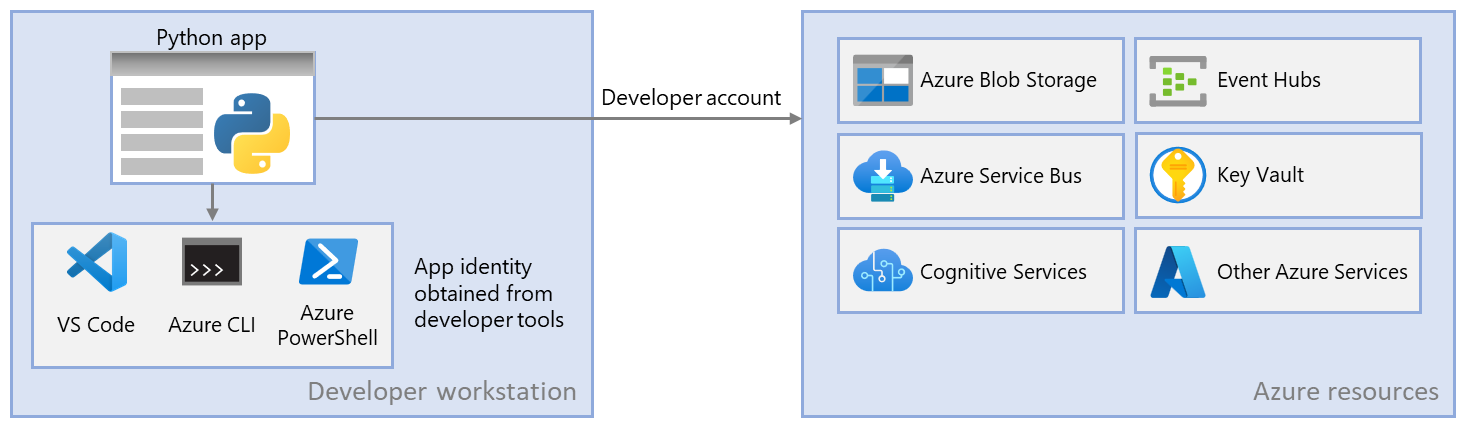
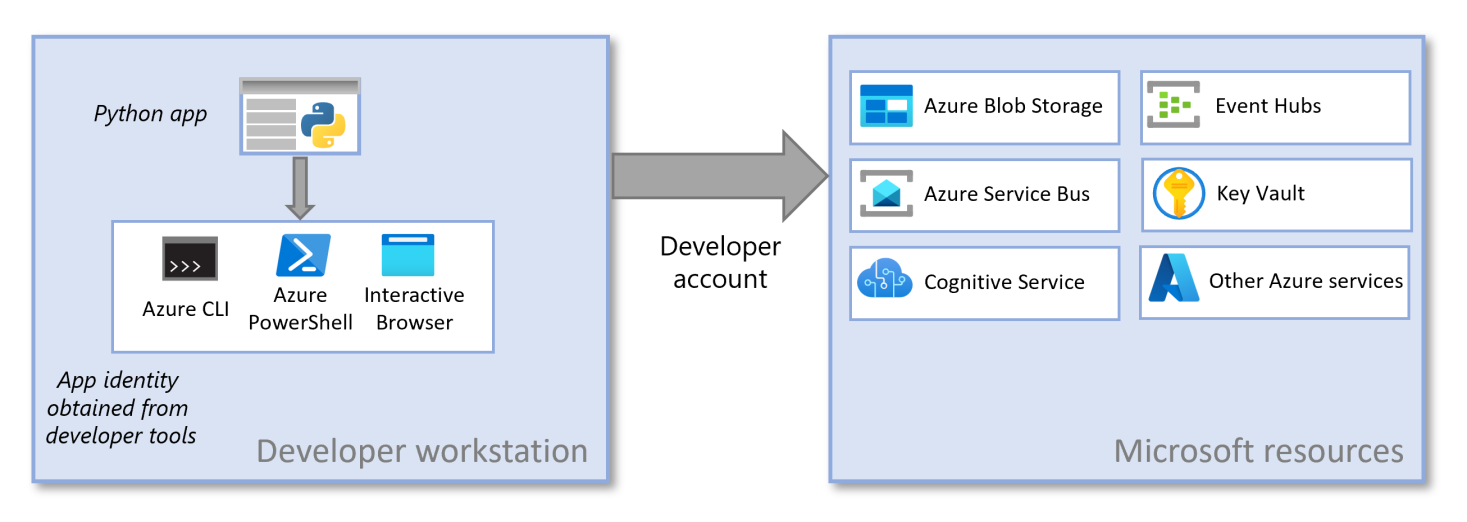
Redo image.

diff --git a/articles/python/sdk/authentication-local-development-dev-accounts.md b/articles/python/sdk/authentication-local-development-dev-accounts.md
@@ -134,8 +134,6 @@ Connect-AzAccount
 
 ### [Interactive browser](#tab/sign-in-interactive-browser)
 
-If enabled, `DefaultAzureCredential` will interactively authenticate a user via the default browser.
-
 Interactive authentication is disabled in the `DefaultAzureCredential` by default and can be enabled with a keyword argument:
 
 ```Python
